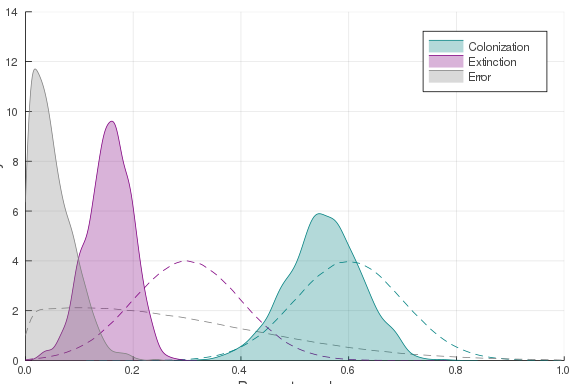
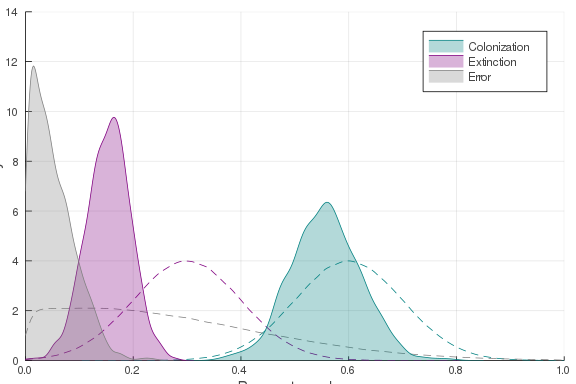
deploy: 89f3d0c7e590ddcdc55b3d4e50a3d7bf466a67bd

diff --git a/capstones/genetic_algorithm/index.html b/capstones/genetic_algorithm/index.html
@@ -142,7 +142,7 @@ existing object.</p><div class=highlight><pre class=chroma><code class=language-
 <span class=n>initial_genome</span><span class=o></span> <span class=o>=</span> <span class=n>Genome</span><span class=o></span><span class=p>(</span><span class=mf>0.2</span><span class=p>,</span> <span class=mf>0.5</span><span class=p>)</span>
 <span class=n>change_both!</span><span class=o></span><span class=p>(</span><span class=n>initial_genome</span><span class=o></span><span class=p>)</span>
 <span class=n>initial_genome</span><span class=o></span>
-</code></pre></div><pre><code>ŷ = 0.205×x + 0.501
+</code></pre></div><pre><code>ŷ = 0.202×x + 0.501
 </code></pre><p>Let's now define a function to work on the actual problem:</p><div class=highlight><pre class=chroma><code class=language-julia data-lang=julia><span class=n>very_gradual_change!</span><span class=o></span> <span class=o>=</span> <span class=n>normal_error</span><span class=o></span><span class=p>(</span><span class=mf>1e-3</span><span class=p>,</span> <span class=mf>1e-3</span><span class=p>)</span>
 </code></pre></div><pre><code>(::getfield(Main.WeaveSandBox0, Symbol(&quot;#f#4&quot;)){Float64,Float64}) (generic 
 function with 1 method)
@@ -153,26 +153,26 @@ probably draw it from $\mathcal{N}(\mu=3, \sigma=1)$; the slope seems to be
 close to one but a little bit lower, so we can get it from
 $\mathcal{N}(\mu=0.75, \sigma=0.2)$:</p><div class=highlight><pre class=chroma><code class=language-julia data-lang=julia><span class=n>population</span><span class=o></span> <span class=o>=</span> <span class=p>[</span><span class=n>Genome</span><span class=o></span><span class=p>(</span><span class=n>rand</span><span class=o></span><span class=p>(</span><span class=n>Normal</span><span class=o></span><span class=p>(</span><span class=mf>0.75</span><span class=p>,</span><span class=mf>0.2</span><span class=p>)</span><span class=p>)</span><span class=p>,</span> <span class=n>rand</span><span class=o></span><span class=p>(</span><span class=n>Normal</span><span class=o></span><span class=p>(</span><span class=mi>3</span><span class=p>,</span><span class=mi>1</span><span class=p>)</span><span class=p>)</span><span class=p>)</span> <span class=k>for</span> <span class=n>i</span><span class=o></span> <span class=kp>in</span> <span class=mi>1</span><span class=o>:</span><span class=mi>500</span><span class=p>]</span>
 </code></pre></div><pre><code>500-element Array{Main.WeaveSandBox0.Genome,1}:
- ŷ = 0.611×x + 1.544
- ŷ = 0.803×x + 1.875
- ŷ = 0.641×x + 3.362
- ŷ = 0.672×x + 3.45 
- ŷ = 0.645×x + 2.891
- ŷ = 0.808×x + 2.985
- ŷ = 0.787×x + 4.012
- ŷ = 0.63×x + 2.229 
- ŷ = 0.731×x + 0.395
- ŷ = 0.634×x + 1.455
+ ŷ = 0.653×x + 1.704
+ ŷ = 0.698×x + 4.232
+ ŷ = 0.927×x + 4.041
+ ŷ = 0.471×x + 3.471
+ ŷ = 0.87×x + 4.375 
+ ŷ = 0.521×x + 2.749
+ ŷ = 0.888×x + 2.477
+ ŷ = 0.939×x + 3.664
+ ŷ = 0.794×x + 4.082
+ ŷ = 0.672×x + 3.562
  ⋮                   
- ŷ = 0.87×x + 2.812 
- ŷ = 1.072×x + 2.002
- ŷ = 0.804×x + 1.567
- ŷ = 0.543×x + 2.608
- ŷ = 0.157×x + 2.236
- ŷ = 1.003×x + 4.481
- ŷ = 1.174×x + 3.109
- ŷ = 0.409×x + 3.865
- ŷ = 0.885×x + 2.075
+ ŷ = 0.61×x + 3.631 
+ ŷ = 0.918×x + 3.382
+ ŷ = 0.923×x + 3.3  
+ ŷ = 0.758×x + 4.553
+ ŷ = 0.741×x + 4.869
+ ŷ = 1.026×x + 3.142
+ ŷ = 0.564×x + 4.564
+ ŷ = 0.889×x + 4.872
+ ŷ = 0.762×x + 5.028
 </code></pre><div class=highlight><pre class=chroma><code class=language-julia data-lang=julia><span class=n>GA!</span><span class=o></span><span class=p>(</span><span class=n>population</span><span class=o></span><span class=p>,</span> <span class=n>fmr_fitness</span><span class=o></span><span class=p>,</span> <span class=n>very_gradual_change!</span><span class=o></span><span class=p>;</span> <span class=n>generations</span><span class=o></span><span class=o>=</span><span class=mi>10000</span><span class=p>)</span>
 </code></pre></div><p><strong><em>TODO</em></strong></p><div class=highlight><pre class=chroma><code class=language-julia data-lang=julia><span class=n>scatter</span><span class=o></span><span class=p>(</span><span class=mf>10.0</span><span class=o>.^</span><span class=n>rates</span><span class=o></span><span class=p>[</span><span class=o>:</span><span class=n>mass</span><span class=o></span><span class=p>]</span><span class=p>,</span> <span class=mf>10.0</span><span class=o>.^</span><span class=n>rates</span><span class=o></span><span class=p>[</span><span class=o>:</span><span class=n>fmr</span><span class=o></span><span class=p>]</span><span class=p>,</span> <span class=n>c</span><span class=o></span><span class=o>=</span><span class=o>:</span><span class=n>teal</span><span class=o></span><span class=p>,</span> <span class=n>leg</span><span class=o></span><span class=o>=</span><span class=kc>false</span><span class=p>,</span> <span class=n>msc</span><span class=o></span><span class=o>=</span><span class=o>:</span><span class=n>transparent</span><span class=o></span><span class=p>)</span>
 <span class=n>pred</span><span class=o></span> <span class=o>=</span> <span class=n>collect</span><span class=o></span><span class=p>(</span><span class=n>LinRange</span><span class=o></span><span class=p>(</span><span class=mf>10.0</span><span class=o>.^</span><span class=n>minimum</span><span class=o></span><span class=p>(</span><span class=n>rates</span><span class=o></span><span class=p>[</span><span class=o>:</span><span class=n>mass</span><span class=o></span><span class=p>]</span><span class=p>)</span><span class=p>,</span> <span class=mf>10.0</span><span class=o>.^</span><span class=n>maximum</span><span class=o></span><span class=p>(</span><span class=n>rates</span><span class=o></span><span class=p>[</span><span class=o>:</span><span class=n>mass</span><span class=o></span><span class=p>]</span><span class=p>)</span><span class=p>,</span> <span class=mi>100</span><span class=p>)</span><span class=p>)</span>
@@ -180,4 +180,4 @@ $\mathcal{N}(\mu=0.75, \sigma=0.2)$:</p><div class=highlight><pre class=chroma><
 <span class=n>plot!</span><span class=o></span><span class=p>(</span><span class=n>pred</span><span class=o></span><span class=p>,</span> <span class=mf>10.0</span><span class=o>.^</span><span class=n>ŷ</span><span class=o></span><span class=p>(</span><span class=n>population</span><span class=o></span><span class=p>[</span><span class=n>mostfit</span><span class=o></span><span class=p>]</span><span class=p>,</span> <span class=n>log10</span><span class=o></span><span class=o>.</span><span class=p>(</span><span class=n>pred</span><span class=o></span><span class=p>)</span><span class=p>)</span><span class=p>,</span> <span class=n>c</span><span class=o></span><span class=o>=</span><span class=o>:</span><span class=n>orange</span><span class=o></span><span class=p>,</span> <span class=n>lw</span><span class=o></span><span class=o>=</span><span class=mi>2</span><span class=p>,</span> <span class=n>ls</span><span class=o></span><span class=o>=</span><span class=o>:</span><span class=n>dash</span><span class=o></span><span class=p>)</span>
 <span class=n>xaxis!</span><span class=o></span><span class=p>(</span><span class=o>:</span><span class=n>log10</span><span class=o></span><span class=p>,</span> <span class=s>&#34;</span><span class=s>M</span><span class=s>a</span><span class=s>s</span><span class=s>s</span><span class=s> </span><span class=s>(</span><span class=s>k</span><span class=s>g</span><span class=s>)</span><span class=s>&#34;</span><span class=p>)</span>
 <span class=n>yaxis!</span><span class=o></span><span class=p>(</span><span class=o>:</span><span class=n>log10</span><span class=o></span><span class=p>,</span> <span class=s>&#34;</span><span class=s>F</span><span class=s>i</span><span class=s>e</span><span class=s>l</span><span class=s>d</span><span class=s> </span><span class=s>M</span><span class=s>e</span><span class=s>t</span><span class=s>a</span><span class=s>b</span><span class=s>o</span><span class=s>l</span><span class=s>i</span><span class=s>c</span><span class=s> </span><span class=s>R</span><span class=s>a</span><span class=s>t</span><span class=s>e</span><span class=s> </span><span class=s>(</span><span class=s>k</span><span class=s>j</span><span class=s> </span><span class=s>p</span><span class=s>e</span><span class=s>r</span><span class=s> </span><span class=s>d</span><span class=s>a</span><span class=s>y</span><span class=s>)</span><span class=s>&#34;</span><span class=p>)</span>
-</code></pre></div><figure><img src=../figures/genetic_algorithm_19_1.png><figcaption><h4>Relationship between field metabolic rate and mass - this is a neat log-log relationship, and so linear regression will give us the exponent.</h4></figcaption></figure><p>We can also look at the equation for the most fit genome: ŷ = 0.63×x + 2.947.</p></section><script src=/js/ui.js></script><script>mermaid.initialize({startOnLoad:true,theme:"neutral",curve:"basis"});</script></body></html>
+</code></pre></div><figure><img src=../figures/genetic_algorithm_19_1.png><figcaption><h4>Relationship between field metabolic rate and mass - this is a neat log-log relationship, and so linear regression will give us the exponent.</h4></figcaption></figure><p>We can also look at the equation for the most fit genome: ŷ = 0.65×x + 2.944.</p></section><script src=/js/ui.js></script><script>mermaid.initialize({startOnLoad:true,theme:"neutral",curve:"basis"});</script></body></html>

diff --git a/lessons/control_flow/index.html b/lessons/control_flow/index.html
@@ -153,10 +153,10 @@ we will use the far more dignified <em>smol</em> and <em>chonky</em>:</p><div cl
   <span class=k>end</span>
 <span class=k>end</span>
 </code></pre></div><pre><code>chonky
-chonky
 smol
-chonky
-chonky
+smol
+smol
+smol
 </code></pre><p>There is quite a lot happening here, so we will go line by line.</p><div class=highlight><pre class=chroma><code class=language-julia data-lang=julia><span class=n>random_numbers</span><span class=o></span> <span class=o>=</span> <span class=n>rand</span><span class=o></span><span class=p>(</span><span class=mi>5</span><span class=p>)</span>
 </code></pre></div><p>First, we generate 5 random numbers, and put them in a variable called
 <code>random_numbers</code>. It is always a good idea to give very explicit names to
@@ -183,11 +183,11 @@ truthiness of it, will print either <em>foo</em> or <em>bar</em>.</p><h2 id=navi
 understanding what exactly is in the <code>random_numbers</code> object. Let's display it
 again:</p><div class=highlight><pre class=chroma><code class=language-julia data-lang=julia><span class=n>random_numbers</span><span class=o></span>
 </code></pre></div><pre><code>5-element Array{Float64,1}:
- 0.7665594254635952
- 0.5912944809299892
- 0.0427207351280956
- 0.5763252073828682
- 0.8128760159590132
+ 0.7732797735483474 
+ 0.3488276810290747 
+ 0.07303911830222543
+ 0.4225653695605369 
+ 0.111038496303276
 </code></pre><p>This type of object is an <em>array</em>; it may help to think of an array as a shelf,
 in which every compartment can store one thing. You can have shelves with a
 single row, a single column, or both rows and columns. In <em>Julia</em>, arrays are by
@@ -203,31 +203,31 @@ has 5 positions in its first <em>dimension</em>, and no positions in its second
 dimension: this is a column with five rows. We can also access any <em>position</em> we
 like; this is akin to asking &ldquo;computer, give me the content of the 1st
 compartment&rdquo;:</p><div class=highlight><pre class=chroma><code class=language-julia data-lang=julia><span class=n>random_numbers</span><span class=o></span><span class=p>[</span><span class=mi>1</span><span class=p>]</span>
-</code></pre></div><pre><code>0.7665594254635952
+</code></pre></div><pre><code>0.7732797735483474
 </code></pre><p>Some languages, like <em>Julia</em>, <em>R</em>, and <em>MatLab</em>, start counting from 1, but
 <em>python</em> and <em>C</em> start counting from 0. These are conventions that each language
 adopted. Everyone thinks the other camp is wrong, and it's one of these
 surprisingly bitter (considering how utterly unimportant they are) divides in
 the computer science world.</p><p>We can *also ask what the <em>last</em> position contains:</p><div class=highlight><pre class=chroma><code class=language-julia data-lang=julia><span class=n>random_numbers</span><span class=o></span><span class=p>[</span><span class=n>length</span><span class=o></span><span class=p>(</span><span class=n>random_numbers</span><span class=o></span><span class=p>)</span><span class=p>]</span>
-</code></pre></div><pre><code>0.8128760159590132
+</code></pre></div><pre><code>0.111038496303276
 </code></pre><p>The way to read this instruction is as follows: get me the element at position
 <code>length(random_numbers)</code>. We know that the length of <code>random_numbers</code> is <code>5</code>, so
 this will return the 5th position. <em>Julia</em> has a quite pretty way of getting the
 last element of most collections:</p><div class=highlight><pre class=chroma><code class=language-julia data-lang=julia><span class=n>random_numbers</span><span class=o></span><span class=p>[</span><span class=k>end</span><span class=p>]</span>
-</code></pre></div><pre><code>0.8128760159590132
+</code></pre></div><pre><code>0.111038496303276
 </code></pre><p>An extra bit of <a href=https://en.wikipedia.org/wiki/Syntactic_sugar>syntactic sugar</a> in <em>Julia</em> are the two following
 functions:</p><div class=highlight><pre class=chroma><code class=language-julia data-lang=julia><span class=n>first</span><span class=o></span><span class=p>(</span><span class=n>random_numbers</span><span class=o></span><span class=p>)</span>
-</code></pre></div><pre><code>0.7665594254635952
+</code></pre></div><pre><code>0.7732797735483474
 </code></pre><div class=highlight><pre class=chroma><code class=language-julia data-lang=julia><span class=n>last</span><span class=o></span><span class=p>(</span><span class=n>random_numbers</span><span class=o></span><span class=p>)</span>
-</code></pre></div><pre><code>0.8128760159590132
+</code></pre></div><pre><code>0.111038496303276
 </code></pre><p>Being able to access elements by their position can be very useful. Our
 <code>random_numbers</code> array has five elements, and we only want to print the
 odd-numbered ones. One way to do this would be to call then individually:</p><div class=highlight><pre class=chroma><code class=language-julia data-lang=julia><span class=n>println</span><span class=o></span><span class=p>(</span><span class=n>random_numbers</span><span class=o></span><span class=p>[</span><span class=mi>1</span><span class=p>]</span><span class=p>)</span>
-</code></pre></div><pre><code>0.7665594254635952
+</code></pre></div><pre><code>0.7732797735483474
 </code></pre><div class=highlight><pre class=chroma><code class=language-julia data-lang=julia><span class=n>println</span><span class=o></span><span class=p>(</span><span class=n>random_numbers</span><span class=o></span><span class=p>[</span><span class=mi>3</span><span class=p>]</span><span class=p>)</span>
-</code></pre></div><pre><code>0.0427207351280956
+</code></pre></div><pre><code>0.07303911830222543
 </code></pre><div class=highlight><pre class=chroma><code class=language-julia data-lang=julia><span class=n>println</span><span class=o></span><span class=p>(</span><span class=n>random_numbers</span><span class=o></span><span class=p>[</span><span class=mi>5</span><span class=p>]</span><span class=p>)</span>
-</code></pre></div><pre><code>0.8128760159590132
+</code></pre></div><pre><code>0.111038496303276
 </code></pre><p>Of course, this is only reasonable if we have a very small number of things to
 do. But what if we want to iterate over hundreds, or thousands of values? We
 need a more efficient strategy.</p><h2 id=iterating-over-values>Iterating over values</h2><p>We know that a number is even if the statement <code>x % 2 == 0</code>, where <code>%</code> is
@@ -237,9 +237,9 @@ integer division by two is <em>not</em> 0: <code>x % 2 != 0</code>.</p><p>Let's 
     <span class=n>println</span><span class=o></span><span class=p>(</span><span class=s>&#34;</span><span class=s>P</span><span class=s>o</span><span class=s>s</span><span class=s>i</span><span class=s>t</span><span class=s>i</span><span class=s>o</span><span class=s>n</span><span class=s> </span><span class=si>$i</span><span class=s>:</span><span class=se>\t</span><span class=s>&#34;</span><span class=p>,</span> <span class=n>random_numbers</span><span class=o></span><span class=p>[</span><span class=n>i</span><span class=o></span><span class=p>]</span><span class=p>)</span>
   <span class=k>end</span>
 <span class=k>end</span>
-</code></pre></div><pre><code>Position 1:	0.7665594254635952
-Position 3:	0.0427207351280956
-Position 5:	0.8128760159590132
+</code></pre></div><pre><code>Position 1:	0.7732797735483474
+Position 3:	0.07303911830222543
+Position 5:	0.111038496303276
 </code></pre><p>We can &ldquo;read&rdquo; this snippet (a <em>snippet</em> is the affectionate name given to a
 litle chunk of code; a <em>chunk</em> is a much uglier name for &ldquo;a piece&rdquo;) as</p><pre><code>there is a variable i
 it will take every value between 1 and the length of the ranom_numbers array
@@ -300,7 +300,7 @@ run it for a while (<em>GET IT?</em>) to get a sample with an average of about 0
 <span class=k>end</span>
 
 <span class=n>println</span><span class=o></span><span class=p>(</span><span class=s>&#34;</span><span class=s>μ</span><span class=s>:</span><span class=s> </span><span class=si>$</span><span class=p>(</span><span class=n>round</span><span class=o></span><span class=p>(</span><span class=n>mean</span><span class=o></span><span class=p>(</span><span class=n>my_collection</span><span class=o></span><span class=p>)</span><span class=p>;</span> <span class=n>digits</span><span class=o></span><span class=o>=</span><span class=mi>4</span><span class=p>)</span><span class=p>)</span><span class=s>&#34;</span><span class=p>)</span>
-</code></pre></div><pre><code>μ: 0.5001
+</code></pre></div><pre><code>μ: 0.5004
 </code></pre><p>The instruction just after <code>while</code>, <em>i.e.</em></p><pre><code>!(0.499 ≤ mean(my_collection) ≤ 0.501)
 </code></pre><p>is worth thinking about. It is a very compact way of running multiple tests at
 once: the mean needs to be larger than 0.499, yet smaller than 0.501, and we

diff --git a/lessons/writing_functions/index.html b/lessons/writing_functions/index.html
@@ -30,16 +30,16 @@ $(0,2)$ will be save us almost four keystrokes!</p><p>After the following lesson
 <span class=k>end</span>
 <span class=n>darts</span><span class=o></span>
 </code></pre></div><pre><code>10-element Array{Any,1}:
- (1.9967084751748083, 1.4802108466756945)  
- (1.4735767886729816, 0.32912977173380886) 
- (1.2826773396914932, 1.6759603136529075)  
- (0.8399535658907635, 0.048911111564841736)
- (1.6727733138280025, 0.38669682461254284) 
- (0.637899755543621, 1.3826052934547666)   
- (1.031388723721232, 0.12630143898597668)  
- (1.047599407873021, 0.22661195635292453)  
- (0.5621617934998415, 1.4239501433012518)  
- (1.1804090395914484, 0.12611715992162775)
+ (0.06287669601846924, 1.0167122014419898)
+ (1.6739837913647895, 1.036310373097697)  
+ (1.660547628054628, 1.7946840949022422)  
+ (0.6757704816061416, 1.905584435775041)  
+ (1.8469085116753714, 1.5801028789760698) 
+ (0.5181646168073204, 0.1543931336112263) 
+ (1.5465511903878957, 1.3541294538961548) 
+ (1.686906673461201, 0.26713799202756405) 
+ (1.1382219352719911, 0.777418521811704)  
+ (1.220889396266879, 1.1417646705258293)
 </code></pre><p>This introduces a few new notations. The <code>darts = []</code> instruction creates an
 <em>empty</em> array. This is not the optimal way of approaching this problem, but
 remember the UNIX philosophy: we'll rewrite this awkard part later. Then we use
@@ -210,7 +210,7 @@ screens to see what the function does). Because we have named our functions
 explicitely, the code is also easy to understand. In the next lesson, we will
 see that modular code is easy to <em>test</em> (and to debug).</p><p>So, how good is our estimate?</p><div class=highlight><pre class=chroma><code class=language-julia data-lang=julia><span class=n>estimate</span><span class=o></span> <span class=o>=</span> <span class=n>estimate_pi</span><span class=o></span><span class=p>(</span><span class=mi>100000</span><span class=p>)</span>
 <span class=n>println</span><span class=o></span><span class=p>(</span><span class=s>&#34;</span><span class=s>E</span><span class=s>s</span><span class=s>t</span><span class=s>i</span><span class=s>m</span><span class=s>a</span><span class=s>t</span><span class=s>e</span><span class=s>:</span><span class=s> </span><span class=si>$</span><span class=p>(</span><span class=n>estimate</span><span class=o></span><span class=p>)</span><span class=se>\t</span><span class=se>\t</span><span class=s>π</span><span class=s>:</span><span class=s> </span><span class=si>$</span><span class=p>(</span><span class=nb>π</span><span class=o>+</span><span class=mi>0</span><span class=p>)</span><span class=s>&#34;</span><span class=p>)</span>
-</code></pre></div><pre><code>Estimate: 3.1408		π: 3.141592653589793
+</code></pre></div><pre><code>Estimate: 3.13536		π: 3.141592653589793
 </code></pre><h2 id=keyword-arguments-and-default-values>Keyword arguments and default values</h2><p>In all functions thus far, we <em>had</em> to give all the values of all arguments.
 Sometimes, it make sense to have some arguments take a default value, which we
 can change when we need to, but will remain constant otherwise.</p><div class="callout warning">Giving default values can save some time, but it means you don't need to <em>think</em>
@@ -253,7 +253,7 @@ longer than if I has asked you what the sum of 0.0 and 1.0 is. Is it true for
 the computer?</p><div class=highlight><pre class=chroma><code class=language-julia data-lang=julia><span class=n>time_int_and_float</span><span class=o></span> <span class=o>=</span> <span class=nd>@elapsed</span><span class=o></span> <span class=mi>0</span> <span class=o>+</span> <span class=mf>1.0</span>
 <span class=n>time_float_and_float</span><span class=o></span> <span class=o>=</span> <span class=nd>@elapsed</span><span class=o></span> <span class=mf>0.0</span> <span class=o>+</span> <span class=mf>1.0</span>
 <span class=n>println</span><span class=o></span><span class=p>(</span><span class=s>&#34;</span><span class=s>I</span><span class=s>t</span><span class=s> </span><span class=s>t</span><span class=s>a</span><span class=s>k</span><span class=s>e</span><span class=s>s</span><span class=s> </span><span class=si>$</span><span class=p>(</span><span class=n>round</span><span class=o></span><span class=p>(</span><span class=n>time_int_and_float</span><span class=o></span><span class=o>/</span><span class=n>time_float_and_float</span><span class=o></span><span class=p>;</span> <span class=n>digits</span><span class=o></span><span class=o>=</span><span class=mi>2</span><span class=p>)</span><span class=p>)</span><span class=s> </span><span class=s>t</span><span class=s>i</span><span class=s>m</span><span class=s>e</span><span class=s>s</span><span class=s> </span><span class=s>l</span><span class=s>o</span><span class=s>n</span><span class=s>g</span><span class=s>e</span><span class=s>r</span><span class=s> </span><span class=s>t</span><span class=s>o</span><span class=s> </span><span class=s>w</span><span class=s>o</span><span class=s>r</span><span class=s>k</span><span class=s> </span><span class=s>w</span><span class=s>i</span><span class=s>t</span><span class=s>h</span><span class=s> </span><span class=s>d</span><span class=s>i</span><span class=s>f</span><span class=s>f</span><span class=s>e</span><span class=s>r</span><span class=s>e</span><span class=s>n</span><span class=s>t</span><span class=s> </span><span class=s>t</span><span class=s>y</span><span class=s>p</span><span class=s>e</span><span class=s>s</span><span class=s>!</span><span class=s>&#34;</span><span class=p>)</span>
-</code></pre></div><pre><code>It takes 1.42 times longer to work with different types!
+</code></pre></div><pre><code>It takes 1.62 times longer to work with different types!
 </code></pre><p>The exact number may vary, but on my machine, it takes about 1.5 times longer to
 do the operation with different types. Why is that?</p><p>It is because the computer needs to &ldquo;rethink&rdquo; about one of these numbers (<em>i.e.</em>
 to change <code>0</code> in <code>0.0</code>, or <code>1.0</code> in <code>1</code>), before it can do the actual operation.

diff --git a/capstones/abc/index.html b/capstones/abc/index.html
@@ -13,13 +13,13 @@ diameter, in the Florida keys. Every year, for 20 years, a few biologists comb
 through the island, to figure out whether or not <em>Eurycotis floridana</em> is
 present or absent. This results in a timeseries, like this:</p><pre><code>Year 1	absent
 Year 2	absent
-Year 3	absent
+Year 3	present
 Year 4	absent
 Year 5	present
-Year 6	absent
+Year 6	present
 Year 7	absent
-Year 8	absent
-Year 9	absent
+Year 8	present
+Year 9	present
 Year 10	absent
 </code></pre><p>To begin with, let us see how we can model the presence/absence of this species.
 We will make two assumptions. First, the biological process here can be
@@ -112,8 +112,8 @@ with parameters $(e=0.2, c=0.6, m=0.1)$, and get the summary statistics:</p><div
    <span class=p>[</span><span class=n>occupancy</span><span class=o></span><span class=p>,</span> <span class=n>transitions</span><span class=o></span><span class=p>]</span> <span class=c># list of things to measure</span>
    <span class=p>)</span>
 </code></pre></div><pre><code>2-element Array{Float64,1}:
- 0.695              
- 0.35678391959798994
+ 0.685              
+ 0.33668341708542715
 </code></pre><p>At this point, we need empirical data to feed the model. Let's say that over
 twenty years, the species has been observed from year 4 to 12, then 14 to 15,
 and finally from year 17 to 20. We can write this as:</p><div class=highlight><pre class=chroma><code class=language-julia data-lang=julia><span class=n>empirical_data</span><span class=o></span> <span class=o>=</span> <span class=n>zeros</span><span class=o></span><span class=p>(</span><span class=kt>Bool</span><span class=p>,</span> <span class=mi>20</span><span class=p>)</span>
@@ -186,7 +186,7 @@ programming exercise.</div><div class=highlight><pre class=chroma><code class=la
 
 <span class=n>xaxis!</span><span class=o></span><span class=p>(</span><span class=s>&#34;</span><span class=s>P</span><span class=s>a</span><span class=s>r</span><span class=s>a</span><span class=s>m</span><span class=s>e</span><span class=s>t</span><span class=s>e</span><span class=s>r</span><span class=s> </span><span class=s>v</span><span class=s>a</span><span class=s>l</span><span class=s>u</span><span class=s>e</span><span class=s>&#34;</span><span class=p>,</span> <span class=p>(</span><span class=mi>0</span><span class=p>,</span><span class=mi>1</span><span class=p>)</span><span class=p>)</span>
 <span class=n>yaxis!</span><span class=o></span><span class=p>(</span><span class=s>&#34;</span><span class=s>D</span><span class=s>e</span><span class=s>n</span><span class=s>s</span><span class=s>i</span><span class=s>t</span><span class=s>y</span><span class=s>&#34;</span><span class=p>,</span> <span class=p>(</span><span class=mi>0</span><span class=p>,</span> <span class=mi>14</span><span class=p>)</span><span class=p>)</span>
-</code></pre></div><figure><img src=../figures/abc_15_1.png><figcaption><h4>Posterior distributions (shaded) and the corresponding priors (dashed) for the three parameters in the model.</h4></figcaption></figure><p>To summarize, we can now extract the values of the different parameters:</p><table><thead><tr><th align=center></th><th align=left>meaning</th><th align=right>mean</th><th align=right>standard deviation</th></tr></thead><tbody><tr><td align=center>$c$</td><td align=left>Colonization rate</td><td align=right>0.554</td><td align=right>0.068</td></tr><tr><td align=center>$e$</td><td align=left>Extinction rate</td><td align=right>0.155</td><td align=right>0.041</td></tr><tr><td align=center>$m$</td><td align=left>Measurement error rate</td><td align=right>0.051</td><td align=right>0.039</td></tr></tbody></table><p>Done! One of the strength of ABC is that we can now <em>generate</em> datasets, using
+</code></pre></div><figure><img src=../figures/abc_15_1.png><figcaption><h4>Posterior distributions (shaded) and the corresponding priors (dashed) for the three parameters in the model.</h4></figcaption></figure><p>To summarize, we can now extract the values of the different parameters:</p><table><thead><tr><th align=center></th><th align=left>meaning</th><th align=right>mean</th><th align=right>standard deviation</th></tr></thead><tbody><tr><td align=center>$c$</td><td align=left>Colonization rate</td><td align=right>0.557</td><td align=right>0.065</td></tr><tr><td align=center>$e$</td><td align=left>Extinction rate</td><td align=right>0.154</td><td align=right>0.041</td></tr><tr><td align=center>$m$</td><td align=left>Measurement error rate</td><td align=right>0.051</td><td align=right>0.04</td></tr></tbody></table><p>Done! One of the strength of ABC is that we can now <em>generate</em> datasets, using
 our original model for simulation. And because we know the measurement error
 rate, we can also correct these datasets to describe the data <em>generation</em>
 process (the actual presence/absence of the species) as opposed to the data

diff --git a/primers/advanced_control_flow/index.html b/primers/advanced_control_flow/index.html
@@ -32,12 +32,14 @@ smaller than 1/3:</p><div class=highlight><pre class=chroma><code class=language
   <span class=n>r</span><span class=o></span> <span class=o>≥</span> <span class=mi>1</span><span class=o>/</span><span class=mi>3</span> <span class=o>||</span> <span class=k>continue</span>
   <span class=n>println</span><span class=o></span><span class=p>(</span><span class=n>round</span><span class=o></span><span class=p>(</span><span class=n>r</span><span class=o></span><span class=p>;</span> <span class=n>digits</span><span class=o></span><span class=o>=</span><span class=mi>2</span><span class=p>)</span><span class=p>)</span>
 <span class=k>end</span>
-</code></pre></div><pre><code>0.48
-0.95
-0.95
-0.47
-0.59
+</code></pre></div><pre><code>0.35
 0.63
+0.7
+0.73
+0.66
+0.74
+0.9
+0.96
 </code></pre><p>In short, <code>continue</code> will <em>skip ahead</em> to the next element in the iteration.
 This can be very important to avoid performing operations on objects that are
 not relevant.</p></section><script src=/js/ui.js></script><script>mermaid.initialize({startOnLoad:true,theme:"neutral",curve:"basis"});</script></body></html>
